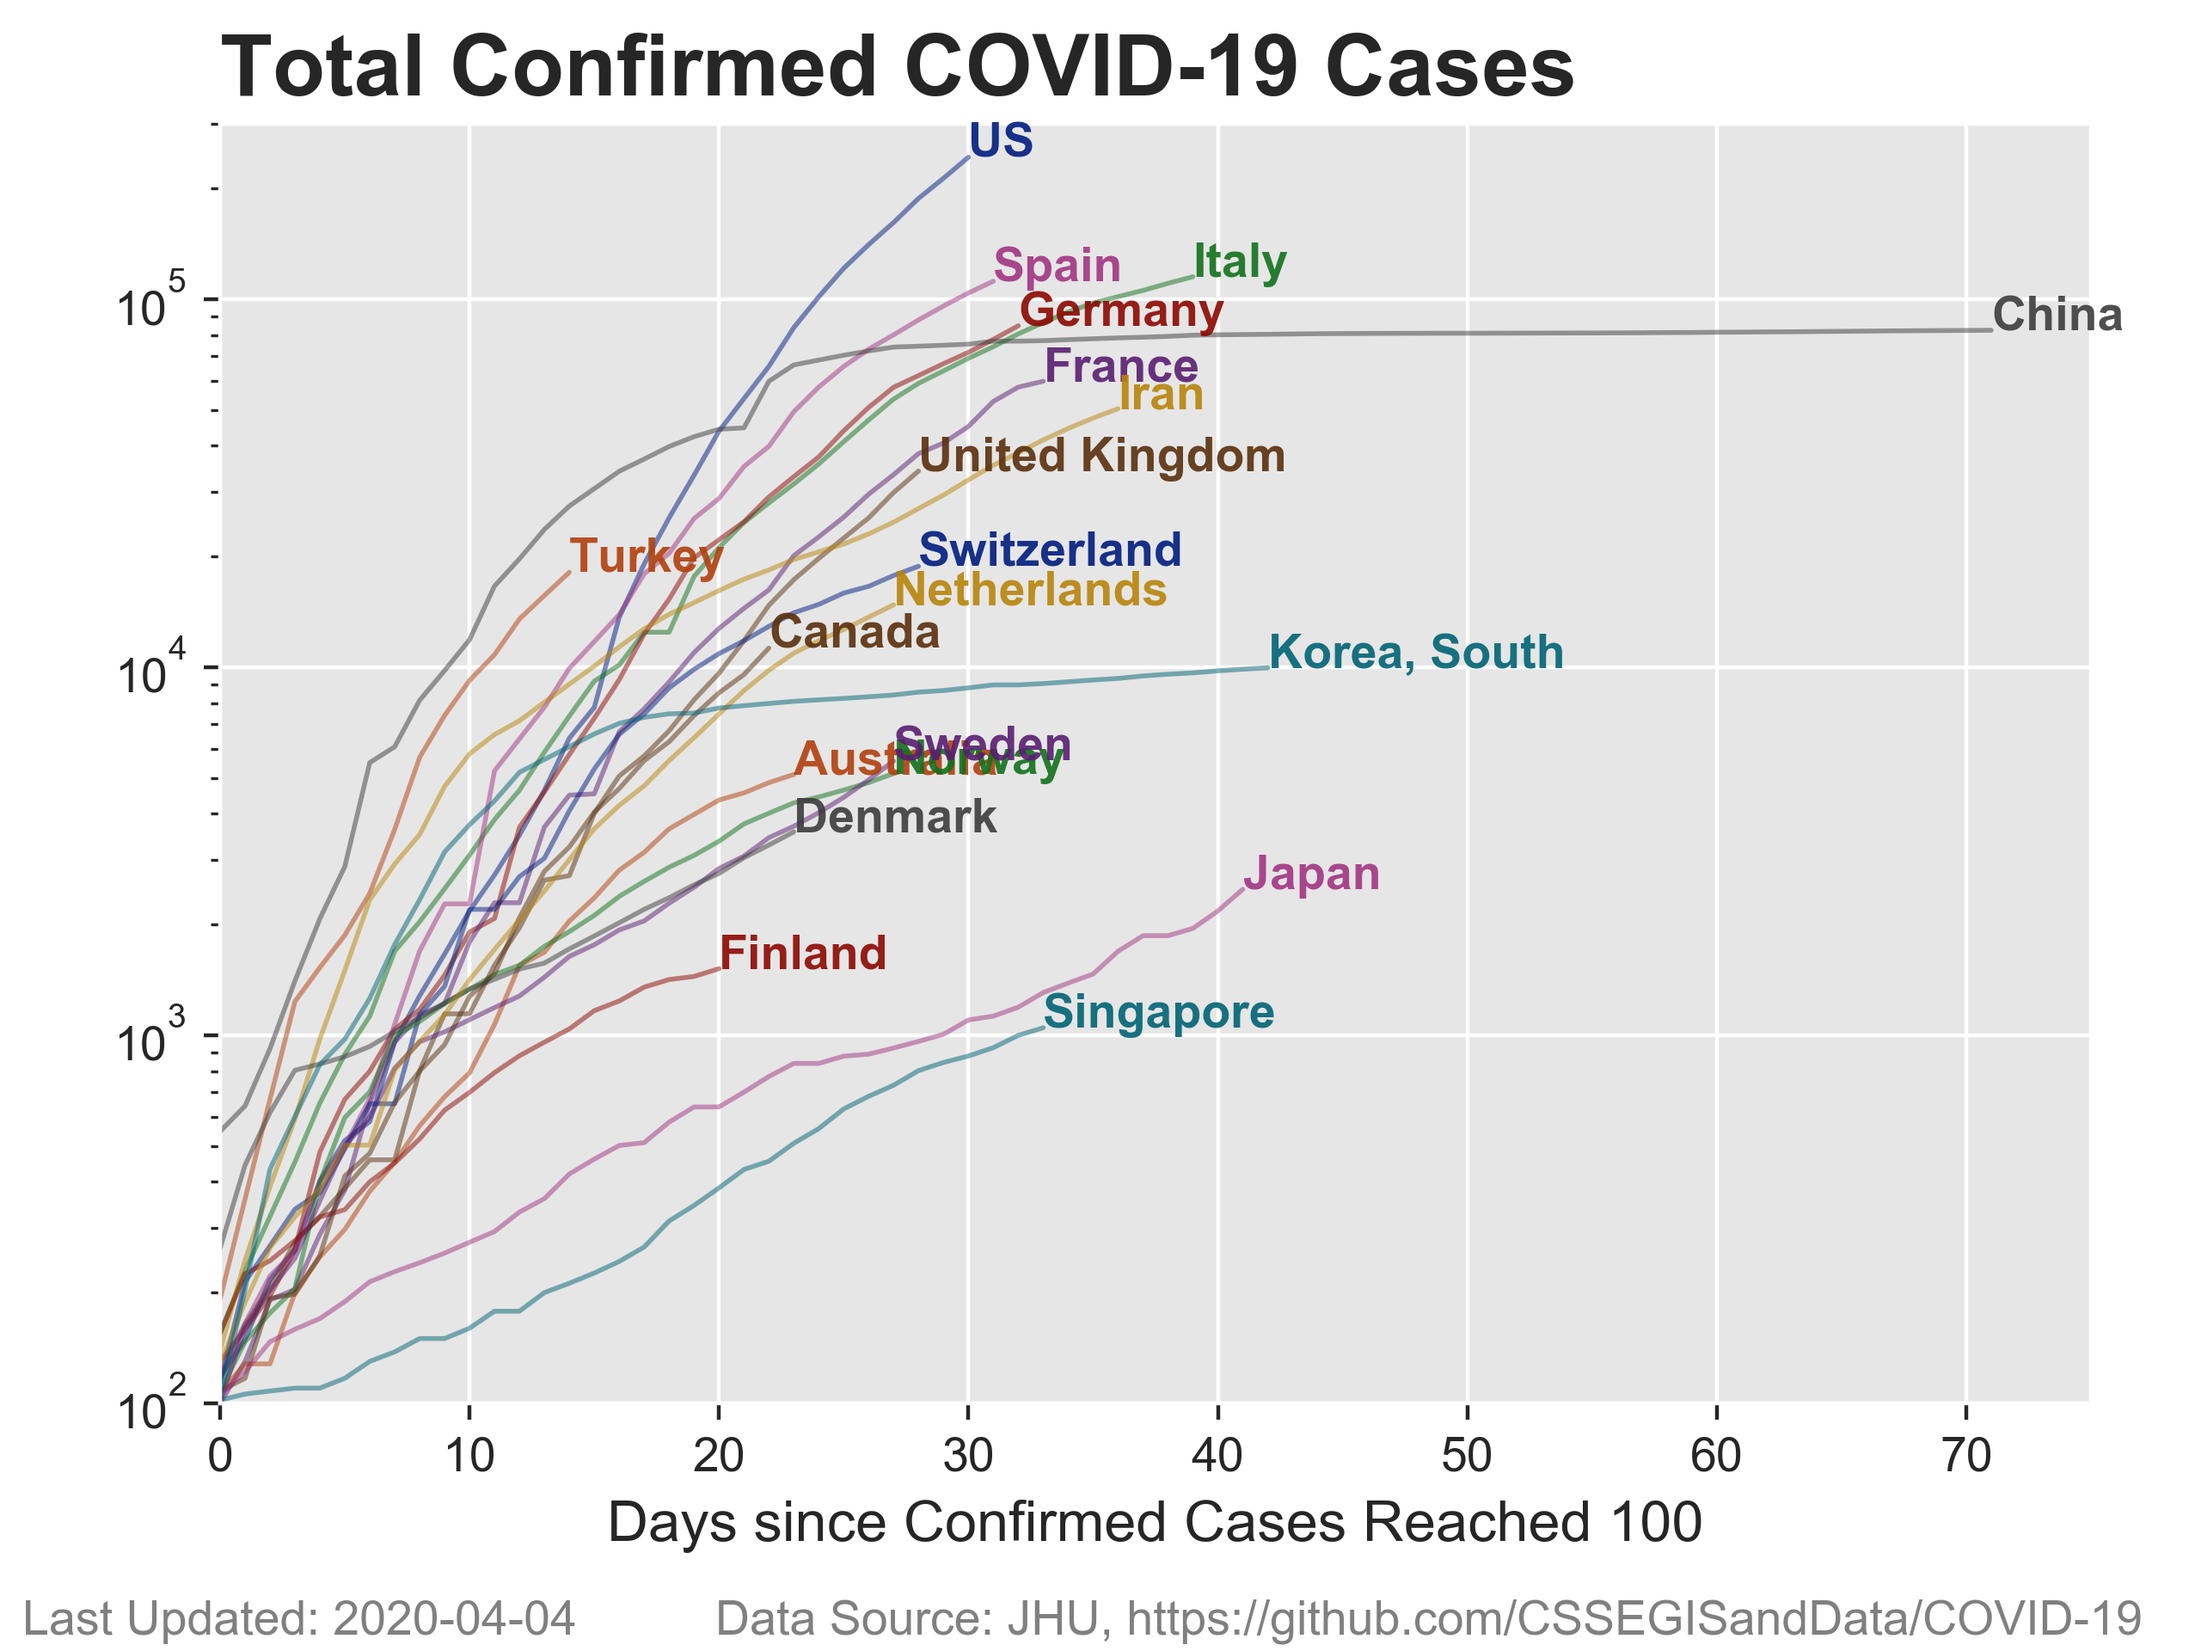
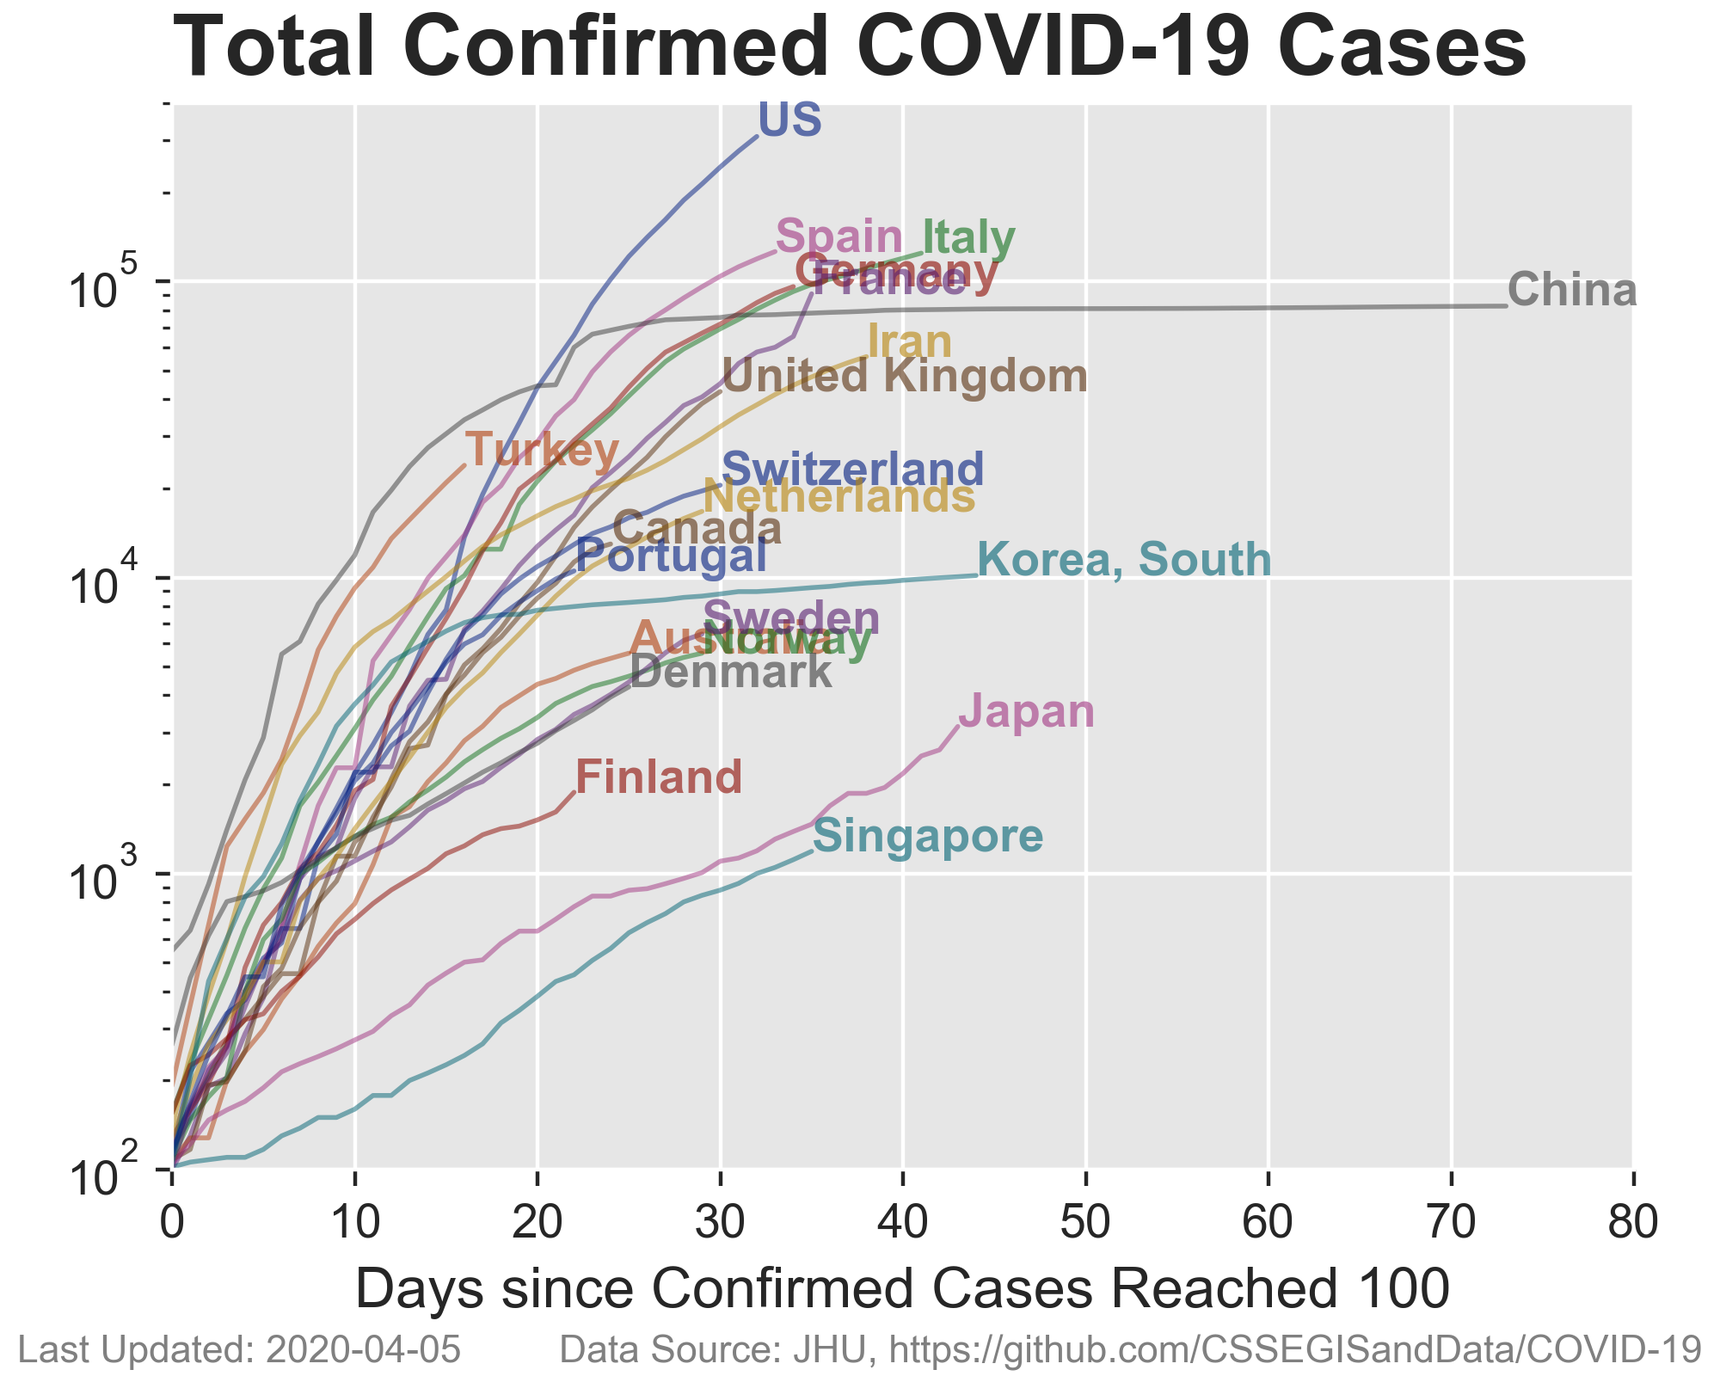
updating plots

diff --git a/plotter_covid.py b/plotter_covid.py
@@ -31,6 +31,7 @@ countries = [
 				'Denmark',
 				'Netherlands',
 				'Korea, South',
+				'Portugal',
 				]
 
 # confirmed cases
@@ -40,6 +41,7 @@ confirmed = pd.DataFrame(confirmed_df.T.ix[4:].values,columns=confirmed_df.T.ix[
 df2 = confirmed.T.groupby(['Country/Region']).sum().T
 confirmed_df = df2[countries]
 confirmed_df.index = pd.to_datetime(confirmed_df.index)
+# print(confirmed.keys().values) # print countries
 
 # new confirmed cases
 confirmed_new_df = confirmed_df.copy()
@@ -59,6 +61,12 @@ death_new_df = death_df.copy()
 for i in range(len(confirmed_new_df.index)-1):
 	death_new_df.ix[-(i+1)]=death_new_df.ix[-(i+1)]-death_new_df.ix[-(i+2)]
 
+# death rate
+data = death_df.ix[-1]/confirmed_df.ix[-1]*100
+sorted_idx_p = np.argsort(data)
+barPos_p = np.arange(sorted_idx_p.shape[0])
+sc = np.array(countries)
+
 # recovered
 path = '/Users/msdogan/Documents/github/COVID-19/csse_covid_19_data/csse_covid_19_time_series/time_series_covid19_recovered_global.csv'
 recovered_df = pd.read_csv(path)
@@ -70,26 +78,26 @@ recovered_df.index = pd.to_datetime(recovered_df.index)
 color = sns.color_palette("dark", len(countries))
 
 # confirmed trend
-fig = plt.figure(); ax = plt.gca()
+fig = plt.figure(figsize=(5,4)); ax = plt.gca()
 for k,item in enumerate(confirmed_df.keys()):
 	df_plot = confirmed_df[confirmed_df[item] >= 100]
 	plt.plot(np.arange(0,len(df_plot[item])),df_plot[item],color=color[k],alpha=0.5,linewidth=1,label=item)
-	plt.text(len(df_plot[item])-1,df_plot[item].iloc[-1],item,fontsize=10,color=color[k],alpha=0.9,fontweight='bold')
+	plt.text(len(df_plot[item])-1,df_plot[item].iloc[-1],item,fontsize=10,color=color[k],alpha=0.6,fontweight='bold')
 ax.set_yscale('log')
 plt.title('Total Confirmed COVID-19 Cases', loc='left', fontweight='bold',fontsize=18)
 ax.get_xaxis().tick_bottom()
 ax.get_yaxis().tick_left()
 plt.xlabel('Days since Confirmed Cases Reached 100',fontsize=12)
-plt.ylim([100,300000])
-plt.xlim([0,75])
-plt.gcf().text(0.01, 0.01, 'Last Updated: '+str(datetime.date.today()),fontsize=10,color='grey')
-plt.gcf().text(0.325, 0.01, 'Data Source: JHU, '+source,fontsize=10,color='grey')
+plt.ylim([100,400000])
+plt.xlim([0,80])
+plt.gcf().text(0.01, 0.01, 'Last Updated: '+str(datetime.date.today()),fontsize=8,color='grey')
+plt.gcf().text(0.325, 0.01, 'Data Source: JHU, '+source,fontsize=8,color='grey')
 plt.subplots_adjust(left=0.1, bottom=0.15, right=0.95, top=0.925)
 plt.savefig('confirmed_trend.png',transparent=False,dpi=400)
 plt.close(fig)
 
 # confirmed trend
-fig = plt.figure(figsize=(6,5))
+fig = plt.figure(figsize=(5,4))
 ax = fig.gca()
 
 def animate(i):
@@ -106,113 +114,83 @@ def animate(i):
 	ax.get_xaxis().tick_bottom()
 	ax.get_yaxis().tick_left()
 	plt.xlabel('Days since Confirmed Cases Reached 100',fontsize=12)
-	plt.ylim([100,300000])
+	plt.ylim([100,400000])
 	plt.legend(loc=2)
 	plt.xlim([0,len(df_plot_italy['Italy'])])
-	plt.gcf().text(0.01, 0.01, 'Last Updated: '+str(datetime.date.today()),fontsize=10,color='grey')
-	plt.gcf().text(0.3, 0.01, 'Data Source: JHU, '+source,fontsize=10,color='grey')
+	plt.gcf().text(0.01, 0.01, 'Last Updated: '+str(datetime.date.today()),fontsize=8,color='grey')
+	plt.gcf().text(0.3, 0.01, 'Data Source: JHU, '+source,fontsize=8,color='grey')
 	plt.subplots_adjust(left=0.1, bottom=0.15, right=0.95, top=0.925)
 	return None
 
 anim = animation.FuncAnimation(fig, animate, frames=len(confirmed_df.keys()), interval=1200)
 anim.save('confirmed.gif', writer='imagemagick', dpi=400)
 
-# confirmed cases plot
-fig = plt.figure(); ax = plt.gca()
-confirmed_df.plot(
-	logy=True,
-	ax=ax,alpha=0.5,ylim=[1,300000],color=color,legend=False,linewidth=1)
-plt.title('Total Confirmed COVID-19 Cases', loc='left', fontweight='bold',fontsize=18)
-ax.get_xaxis().tick_bottom()
-ax.get_yaxis().tick_left()
-for i,item in enumerate(confirmed_df.keys()):
-	plt.text(confirmed_df.index[-1],confirmed_df[item].iloc[-1],item,fontsize=8,color=color[i],alpha=0.9)
-plt.gcf().text(0.01, 0.01, 'Last Updated: '+str(datetime.date.today()),fontsize=10,color='grey')
-plt.gcf().text(0.325, 0.01, 'Data Source: JHU, '+source,fontsize=10,color='grey')
-plt.subplots_adjust(left=0.125, bottom=0.175, right=0.85, top=0.925)
-plt.savefig('confirmed.png',transparent=False,dpi=400)
-plt.close(fig)
+# all in one plot
+plt.figure(figsize=(12, 8))
 
-# confirmed new cases plot
-fig = plt.figure(); ax = plt.gca()
+ax1 = plt.subplot(231)
 confirmed_new_df.plot(
 	# logy=True,
-	ax=ax,alpha=0.5,ylim=[1,35000],color=color,legend=False,linewidth=1)
-plt.title('Confirmed New COVID-19 Cases', loc='left', fontweight='bold',fontsize=18)
-ax.get_xaxis().tick_bottom()
-ax.get_yaxis().tick_left()
+	ax=ax1,alpha=0.5,ylim=[1,35000],xlim=[confirmed_new_df.index[0],confirmed_new_df.index[-1]],color=color,legend=False,linewidth=1)
+plt.title('Confirmed New COVID-19 Cases', loc='left', fontweight='bold',fontsize=11)
+ax1.get_xaxis().tick_bottom()
+ax1.get_yaxis().tick_left()
 for i,item in enumerate(confirmed_new_df.keys()):
 	plt.text(confirmed_new_df.index[-1],confirmed_new_df[item].iloc[-1],item,fontsize=8,color=color[i],alpha=0.9)
-plt.gcf().text(0.01, 0.01, 'Last Updated: '+str(datetime.date.today()),fontsize=10,color='grey')
-plt.gcf().text(0.325, 0.01, 'Data Source: JHU, '+source,fontsize=10,color='grey')
-plt.subplots_adjust(left=0.125, bottom=0.175, right=0.85, top=0.925)
-plt.savefig('confirmed_new.png',transparent=False,dpi=400)
-plt.close(fig)
 
-# number of deaths plot
-fig = plt.figure(); ax = plt.gca()
-death_df.plot(
+ax2 = plt.subplot(232)
+confirmed_df.plot(
 	logy=True,
-	ax=ax,alpha=0.5,ylim=[1,20000],xlim=[death_df.index[0],death_df.index[-1]],color=color,legend=False,linewidth=1)
-plt.title('Total Number of COVID-19 Deaths', loc='left', fontweight='bold',fontsize=18)
-ax.get_xaxis().tick_bottom()
-ax.get_yaxis().tick_left()
-for i,item in enumerate(death_df.keys()):
-	plt.text(death_df.index[-1],death_df[item].iloc[-1],item,fontsize=8,color=color[i],alpha=0.9)
-plt.gcf().text(0.01, 0.01, 'Last Updated: '+str(datetime.date.today()),fontsize=10,color='grey')
-plt.gcf().text(0.325, 0.01, 'Data Source: JHU, '+source,fontsize=10,color='grey')
-plt.subplots_adjust(left=0.125, bottom=0.175, right=0.85, top=0.925)
-plt.savefig('death.png',transparent=False,dpi=400)
-plt.close(fig)
+	ax=ax2,alpha=0.5,ylim=[1,400000],xlim=[confirmed_df.index[0],confirmed_df.index[-1]],color=color,legend=False,linewidth=1)
+plt.title('Total Confirmed COVID-19 Cases', loc='left', fontweight='bold',fontsize=11)
+ax2.get_xaxis().tick_bottom()
+ax2.get_yaxis().tick_left()
+for i,item in enumerate(confirmed_df.keys()):
+	plt.text(confirmed_df.index[-1],confirmed_df[item].iloc[-1],item,fontsize=8,color=color[i],alpha=0.9)
 
-# new death plot
-fig = plt.figure(); ax = plt.gca()
+ax3 = plt.subplot(233)
 death_new_df.plot(
 	# logy=True,
-	ax=ax,alpha=0.5,ylim=[1,1500],color=color,legend=False,linewidth=1)
-plt.title('New COVID-19 Fatalities', loc='left', fontweight='bold',fontsize=18)
-ax.get_xaxis().tick_bottom()
-ax.get_yaxis().tick_left()
+	ax=ax3,alpha=0.5,ylim=[1,1400],xlim=[death_new_df.index[0],death_new_df.index[-1]],color=color,legend=False,linewidth=1)
+plt.title('New COVID-19 Fatalities', loc='left', fontweight='bold',fontsize=11)
+ax3.get_xaxis().tick_bottom()
+ax3.get_yaxis().tick_left()
 for i,item in enumerate(death_new_df.keys()):
 	plt.text(death_new_df.index[-1],death_new_df[item].iloc[-1],item,fontsize=8,color=color[i],alpha=0.9)
-plt.gcf().text(0.01, 0.01, 'Last Updated: '+str(datetime.date.today()),fontsize=10,color='grey')
-plt.gcf().text(0.325, 0.01, 'Data Source: JHU, '+source,fontsize=10,color='grey')
-plt.subplots_adjust(left=0.125, bottom=0.175, right=0.85, top=0.925)
-plt.savefig('death_new.png',transparent=False,dpi=400)
-plt.close(fig)
 
-# recovered plot
-fig = plt.figure(); ax = plt.gca()
-recovered_df.plot(
-	logy=True,
-	ax=ax,alpha=0.5,ylim=[1,100000],xlim=[recovered_df.index[0],confirmed_df.index[-1]],color=color,legend=False,linewidth=1)
-plt.title('Total Recovered COVID-19 Patients', loc='left', fontweight='bold',fontsize=18)
-ax.get_xaxis().tick_bottom()
-ax.get_yaxis().tick_left()
-for i,item in enumerate(recovered_df.keys()):
-	plt.text(recovered_df.index[-1],recovered_df[item].iloc[-1],item,fontsize=8,color=color[i],alpha=0.9)
-plt.gcf().text(0.01, 0.01, 'Last Updated: '+str(datetime.date.today()),fontsize=10,color='grey')
-plt.gcf().text(0.325, 0.01, 'Data Source: JHU, '+source,fontsize=10,color='grey')
-plt.subplots_adjust(left=0.125, bottom=0.175, right=0.85, top=0.925)
-plt.savefig('recovered.png',transparent=False,dpi=400)
-plt.close(fig)
-
-# death rate
-data = death_df.ix[-1]/confirmed_df.ix[-1]*100
-sorted_idx_p = np.argsort(data)
-barPos_p = np.arange(sorted_idx_p.shape[0])
-sc = np.array(countries)
-
-fig = plt.figure(); ax = plt.gca()
-plt.barh(barPos_p, data[sorted_idx_p],alpha=0.8)
-plt.yticks(barPos_p, sc[sorted_idx_p],fontsize='9')
-plt.title('COVID-19 Mortality Rate (%)', loc='left', fontweight='bold',fontsize=18)
-ax.get_xaxis().tick_bottom()
-ax.get_yaxis().tick_left()
-plt.gcf().text(0.01, 0.01, 'Last Updated: '+str(datetime.date.today()),fontsize=10,color='grey')
-plt.gcf().text(0.325, 0.01, 'Data Source: JHU, '+source,fontsize=10,color='grey')
+ax4 = plt.subplot(234)
+plt.barh(barPos_p, data[sorted_idx_p],alpha=0.9)
+plt.yticks(barPos_p, sc[sorted_idx_p])
+plt.title('COVID-19 Mortality Rate (%)', loc='left', fontweight='bold',fontsize=11)
+ax4.get_xaxis().tick_bottom()
+ax4.get_yaxis().tick_left()
 plt.xlim([0,14])
 plt.xlabel('(# of Deaths / Confirmed Cases) * 100')
-plt.subplots_adjust(left=0.175, bottom=0.15, right=0.925, top=0.925)
-plt.savefig('death_rate.png',transparent=False,dpi=400)
+
+ax5 = plt.subplot(235)
+death_df.plot(
+	logy=True,
+	ax=ax5,alpha=0.5,ylim=[1,20000],xlim=[death_df.index[0],death_df.index[-1]],color=color,legend=False,linewidth=1)
+plt.title('Total Number of COVID-19 Deaths', loc='left', fontweight='bold',fontsize=11)
+ax5.get_xaxis().tick_bottom()
+ax5.get_yaxis().tick_left()
+for i,item in enumerate(death_df.keys()):
+	plt.text(death_df.index[-1],death_df[item].iloc[-1],item,fontsize=8,color=color[i],alpha=0.9)
+
+ax6 = plt.subplot(236)
+recovered_df.plot(
+	logy=True,
+	ax=ax6,alpha=0.5,ylim=[1,100000],xlim=[recovered_df.index[0],confirmed_df.index[-1]],color=color,legend=False,linewidth=1)
+plt.title('Total Recovered COVID-19 Patients', loc='left', fontweight='bold',fontsize=11)
+ax6.get_xaxis().tick_bottom()
+ax6.get_yaxis().tick_left()
+for i,item in enumerate(recovered_df.keys()):
+	plt.text(recovered_df.index[-1],recovered_df[item].iloc[-1],item,fontsize=8,color=color[i],alpha=0.9)
+
+plt.legend(bbox_to_anchor=(1.2, 1.2, 1., .12), loc='center right', ncol=1)
+plt.subplots_adjust(left=0.1, bottom=0.15, right=0.8, top=0.925, wspace=0.6, hspace=0.4)
+plt.gcf().text(0.01, 0.01, 'Last Updated: '+str(datetime.date.today()),fontsize=12,color='grey')
+plt.gcf().text(0.35, 0.01, 'Data Source: Johns Hopkins University, '+source,fontsize=12,color='grey')
+plt.savefig('total_plot.png',transparent=False,dpi=400)
 plt.close(fig)
+

diff --git a/README.md b/README.md
@@ -19,8 +19,8 @@
 
 ![confirmed_trend](confirmed.gif) 
 
- ## Mortality Rate (\%)
+ ## Case Plots (\%)
  
- Total number of deaths from COVID-19 divided by total confirmed cases
+ Series of plots monitoring COVID-19
 
-![mortality](death_rate.png) 
+![monitor](total_plot.png) 
